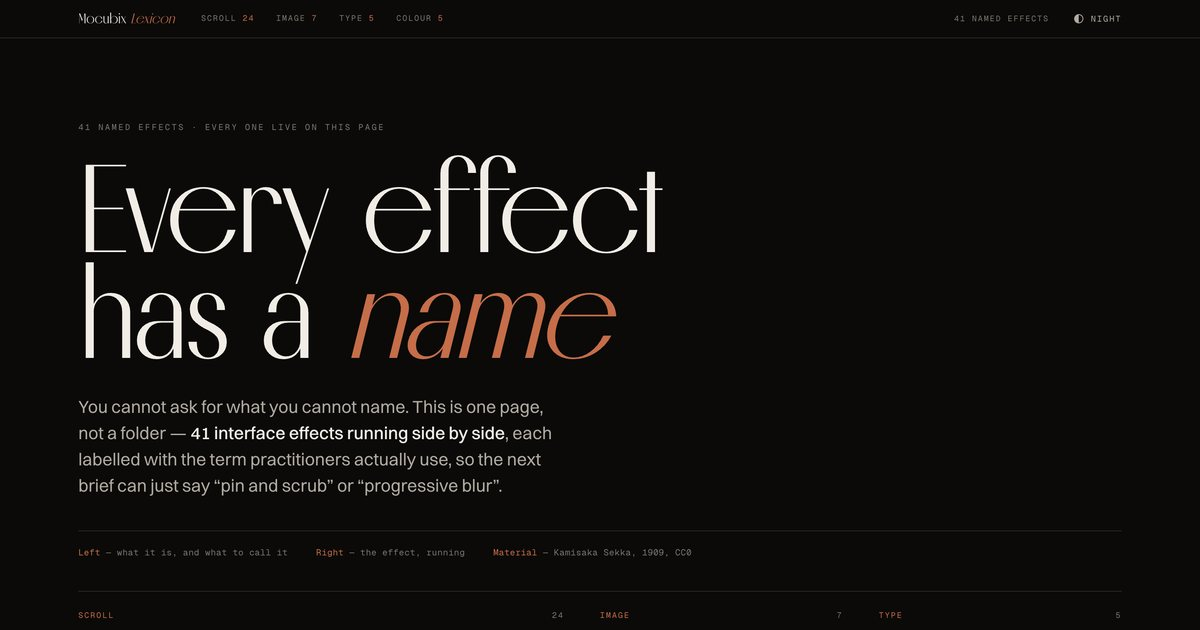
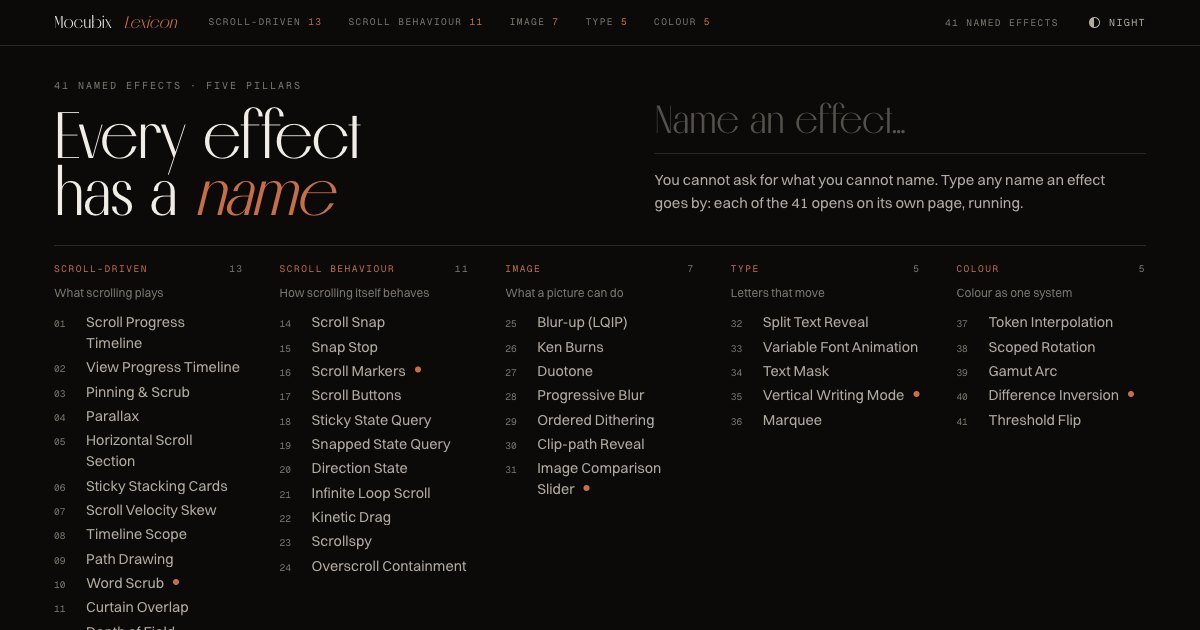
Share cards for the five showcases; the Lexicon's card retaken
Each showcase page now shares its own 1200x630 card, taken in Chrome at a
telling moment of its stage. The Lexicon card showed the retired one-page
Lexicon and was retaken from the entrance. The showcase dot stays with its
term's last word.

diff --git a/site/lexicon/index.html b/site/lexicon/index.html
@@ -60,7 +60,7 @@
     <input id="find" type="search" placeholder="Name an effect…" autocomplete="off" spellcheck="false">
     <p class="caption" aria-live="polite">You cannot ask for what you cannot name. Type any name an effect goes by: each of the 41 opens on its own page, running.</p>
   </div>
-  <div class="index"><div class="idxcol"><h4><a href="scroll-driven/">Scroll-driven</a><em>13</em></h4><p class="blurb">What scrolling plays</p><ol><li><a href="scroll-progress-timeline/" data-aka="scroll-linked animation · page progress" data-gloss="How far you have scrolled is how far the animation has played. The hairline across the top of this page is one."><b>01</b><span style="view-transition-name:t-scroll-progress-timeline">Scroll Progress Timeline</span></a></li><li><a href="view-progress-timeline/" data-aka="view timeline · element-in-viewport progress" data-gloss="Every row times its own animation by its own trip across the screen, so no two are at the same point at the same moment."><b>02</b><span style="view-transition-name:t-view-progress-timeline">View Progress Timeline</span></a></li><li><a href="pinning-and-scrub/" data-aka="sticky section · pinned stage · ScrollTrigger pin + scrub" data-gloss="The picture holds still while the page keeps moving, and your scrolling becomes the playhead. Scroll back up and it plays backwards."><b>03</b><span style="view-transition-name:t-pinning-and-scrub">Pinning &amp; Scrub</span></a></li><li><a href="parallax/" data-aka="differential scroll · multiplane" data-gloss="The layers move at different rates, and the difference between the rates is the part you read as distance."><b>04</b><span style="view-transition-name:t-parallax">Parallax</span></a></li><li><a href="horizontal-scroll-section/" data-aka="pinned horizontal scroll · sideways gallery" data-gloss="You scroll down; the content travels sideways. A list you ranked becomes a row you compare across."><b>05</b><span style="view-transition-name:t-horizontal-scroll-section">Horizontal Scroll Section</span></a></li><li><a href="sticky-stacking-cards/" data-aka="card stack · sticky stack" data-gloss="Cards catch at the top one after another and pile over each other as you keep going."><b>06</b><span style="view-transition-name:t-sticky-stacking-cards">Sticky Stacking Cards</span></a></li><li><a href="scroll-velocity-skew/" data-aka="skew on scroll · velocity distortion · momentum skew" data-gloss="It reads how fast you are scrolling rather than where you have got to. Throw the page and the picture leans, then settles."><b>07</b><span style="view-transition-name:t-scroll-velocity-skew">Scroll Velocity Skew</span></a></li><li><a href="timeline-scope/" data-aka="timeline-scope · remote timeline · cross-tree driving" data-gloss="A figure far down the panel drives the bar at the top of it. One element&#x27;s passage moves something it sits nowhere near."><b>08</b><span style="view-transition-name:t-timeline-scope">Timeline Scope</span></a></li><li><a href="path-drawing/" data-aka="stroke-dashoffset scrub · line draw · SVG path reveal" data-gloss="The line draws itself as you arrive, as though someone were tracing it in front of you."><b>09</b><span style="view-transition-name:t-path-drawing">Path Drawing</span></a></li><li><a href="word-scrub/" data-aka="read-along highlight · per-word reveal · text scrub" data-gloss="The sentence lights up a word at a time, and how much of it has arrived is how far you have come down the page."><b>10</b><span style="view-transition-name:t-word-scrub">Word Scrub <i class="shows" title="Has a full showcase"></i></span></a></li><li><a href="curtain-overlap/" data-aka="panel slide-over · curtain reveal · section overlap" data-gloss="The next panel covers the one before it rather than pushing it out of the way."><b>11</b><span style="view-transition-name:t-curtain-overlap">Curtain Overlap</span></a></li><li><a href="depth-of-field/" data-aka="focus falloff · viewport-centre focus · scroll blur" data-gloss="Only the band across the middle of the screen is sharp. Everything above and below it falls out of focus."><b>12</b><span style="view-transition-name:t-depth-of-field">Depth of Field</span></a></li><li><a href="scroll-triggered-count/" data-aka="odometer · number roll · stat counter" data-gloss="The figures wait until they are on screen, then run up to their value — once, not every time you pass."><b>13</b><span style="view-transition-name:t-scroll-triggered-count">Scroll-Triggered Count</span></a></li></ol></div><div class="idxcol"><h4><a href="scroll-behaviour/">Scroll behaviour</a><em>11</em></h4><p class="blurb">How scrolling itself behaves</p><ol><li><a href="scroll-snap/" data-aka="snap points · scroll snapping" data-gloss="Scrolling comes to rest on a whole item instead of halfway between two. It feels like turning pages."><b>14</b><span style="view-transition-name:t-scroll-snap">Scroll Snap</span></a></li><li><a href="snap-stop/" data-aka="scroll-snap-stop · no-skip snapping · mandatory stop" data-gloss="Flick both tracks hard. The top one skips three or four items in one go; the bottom one stops at the very next one."><b>15</b><span style="view-transition-name:t-snap-stop">Snap Stop</span></a></li><li><a href="scroll-markers/" data-aka="::scroll-marker · CSS-only carousel dots · scroll-marker-group" data-gloss="The dots under the strip are made by the strip itself, and follow wherever you are in it."><b>16</b><span style="view-transition-name:t-scroll-markers">Scroll Markers <i class="shows" title="Has a full showcase"></i></span></a></li><li><a href="scroll-buttons/" data-aka="::scroll-button() · generated prev/next · CSS-only controls" data-gloss="The back and forward arrows come out of the row of items itself, and go grey when there is nothing left that way."><b>17</b><span style="view-transition-name:t-scroll-buttons">Scroll Buttons</span></a></li><li><a href="sticky-state-query/" data-aka="stuck detection · scroll-state container query · sticky-aware header" data-gloss="The moment the bar catches at the top of its panel, it knows, and changes itself."><b>18</b><span style="view-transition-name:t-sticky-state-query">Sticky State Query</span></a></li><li><a href="snapped-state-query/" data-aka="snapped detection · active-slide styling · scroll-state(snapped)" data-gloss="Whichever slide is parked at the centre knows it is the one you are looking at, and lights up."><b>19</b><span style="view-transition-name:t-snapped-state-query">Snapped State Query</span></a></li><li><a href="direction-state/" data-aka="auto-hide header · direction-aware nav · scroll-up reveal" data-gloss="Going down puts the bar away so you can read. Going back up brings it straight back."><b>20</b><span style="view-transition-name:t-direction-state">Direction State</span></a></li><li><a href="infinite-loop-scroll/" data-aka="endless scroll · recycled list · seamless wrap" data-gloss="The list has no end. Keep going and it carries on, with no seam to catch on."><b>21</b><span style="view-transition-name:t-infinite-loop-scroll">Infinite Loop Scroll</span></a></li><li><a href="kinetic-drag/" data-aka="drag-to-scroll · inertial scrolling · momentum decay" data-gloss="Grab it and throw it. It keeps going after you let go, then slows to a stop as though it had weight."><b>22</b><span style="view-transition-name:t-kinetic-drag">Kinetic Drag</span></a></li><li><a href="scrollspy/" data-aka="section tracking · active-anchor highlight · reading position" data-gloss="Whatever has reached eye level is the thing the index marks as where you are."><b>23</b><span style="view-transition-name:t-scrollspy">Scrollspy</span></a></li><li><a href="overscroll-containment/" data-aka="scroll chaining · overscroll-behavior · gesture trapping" data-gloss="Push both panels past their last line. One hands your gesture on to the page behind it; the other keeps it."><b>24</b><span style="view-transition-name:t-overscroll-containment">Overscroll Containment</span></a></li></ol></div><div class="idxcol"><h4><a href="image/">Image</a><em>7</em></h4><p class="blurb">What a picture can do</p><ol><li><a href="blur-up-lqip/" data-aka="low-quality image placeholder · progressive loading" data-gloss="A small blurred stand-in appears at once and the real picture fades in over it — in a box that was already the right size, so nothing jumps."><b>25</b><span style="view-transition-name:t-blur-up-lqip">Blur-up (LQIP)</span></a></li><li><a href="ken-burns/" data-aka="slow pan and zoom · documentary pan" data-gloss="A still photograph is given a slow drift and a slow push in — just enough to feel like time passing."><b>26</b><span style="view-transition-name:t-ken-burns">Ken Burns</span></a></li><li><a href="duotone/" data-aka="two-tone mapping · bichromate" data-gloss="Any photograph, whatever it arrived wearing, comes out in one colour. Drag back to see what it came in as."><b>27</b><span style="view-transition-name:t-duotone">Duotone</span></a></li><li><a href="progressive-blur/" data-aka="gradient blur · layered blur · tapered blur" data-gloss="The picture softens towards the bottom, so the caption sits on something readable without a black bar laid across it."><b>28</b><span style="view-transition-name:t-progressive-blur">Progressive Blur</span></a></li><li><a href="ordered-dithering/" data-aka="Bayer dithering · halftone · posterize" data-gloss="The picture is cut down to a handful of tones, and the ones that are missing are made up out of a regular grain. Drag to take more away."><b>29</b><span style="view-transition-name:t-ordered-dithering">Ordered Dithering</span></a></li><li><a href="clip-path-reveal/" data-aka="mask reveal · wipe · shape reveal" data-gloss="The picture is uncovered by an edge travelling across it, not by fading up underneath."><b>30</b><span style="view-transition-name:t-clip-path-reveal">Clip-path Reveal</span></a></li><li><a href="image-comparison-slider/" data-aka="before/after · juxtapose" data-gloss="Two versions of the same frame, one laid over the other. Drag the divider across to compare them."><b>31</b><span style="view-transition-name:t-image-comparison-slider">Image Comparison Slider <i class="shows" title="Has a full showcase"></i></span></a></li></ol></div><div class="idxcol"><h4><a href="type/">Type</a><em>5</em></h4><p class="blurb">Letters that move</p><ol><li><a href="split-text-reveal/" data-aka="staggered line reveal · line mask · SplitText" data-gloss="The lines rise up out of the page one after another, each a beat behind the last."><b>32</b><span style="view-transition-name:t-split-text-reveal">Split Text Reveal</span></a></li><li><a href="variable-font-animation/" data-aka="axis interpolation · variable axes" data-gloss="Weight is a dial here, not a set of steps. Drag it and the letterforms thicken without ever swapping to another file."><b>33</b><span style="view-transition-name:t-variable-font-animation">Variable Font Animation</span></a></li><li><a href="text-mask/" data-aka="knockout text · background-clip · image-in-type" data-gloss="The picture shows only through the letters. The type is the window, not the caption."><b>34</b><span style="view-transition-name:t-text-mask">Text Mask</span></a></li><li><a href="vertical-writing-mode/" data-aka="竖排 · tate-gumi · vertical typesetting" data-gloss="Set down the page instead of across it, the way Chinese, Japanese and Korean have always been set. Each column is written downward, and they arrive right to left. Latin and figures turn sideways to follow — all but the year, held upright in a single square."><b>35</b><span style="view-transition-name:t-vertical-writing-mode">Vertical Writing Mode <i class="shows" title="Has a full showcase"></i></span></a></li><li><a href="marquee/" data-aka="ticker · infinite scroller · running band" data-gloss="A band of text running sideways under its own power, whether or not you touch the page. Hover to stop it."><b>36</b><span style="view-transition-name:t-marquee">Marquee</span></a></li></ol></div><div class="idxcol"><h4><a href="colour/">Colour</a><em>5</em></h4><p class="blurb">Colour as one system</p><ol><li><a href="token-interpolation/" data-aka="scroll-driven theme · animated custom properties · palette rotation" data-gloss="Every colour on the card is held to one dial. Scroll, and they all turn together, in step, never landing on a combination nobody chose."><b>37</b><span style="view-transition-name:t-token-interpolation">Token Interpolation</span></a></li><li><a href="scoped-rotation/" data-aka="custom property invalidation · style recalc scope" data-gloss="The same colour change, asked of a few elements or of a great many. Press the switch and watch the counter beside it."><b>38</b><span style="view-transition-name:t-scoped-rotation">Scoped Rotation</span></a></li><li><a href="gamut-arc/" data-aka="hue path · chroma preservation · colour interpolation" data-gloss="Two ways to get from terra to blue. The left field goes round the outside and is a full colour the whole way; the right one goes straight across and turns to mud halfway."><b>39</b><span style="view-transition-name:t-gamut-arc">Gamut Arc</span></a></li><li><a href="difference-inversion/" data-aka="mix-blend-mode · invert on crossing · self-inverting overlay" data-gloss="The words turn themselves into the opposite of whatever passes behind them, so they stay readable over a photograph, over white and over black — and then vanish over one particular grey."><b>40</b><span style="view-transition-name:t-difference-inversion">Difference Inversion <i class="shows" title="Has a full showcase"></i></span></a></li><li><a href="threshold-flip/" data-aka="section theming · discrete palette swap · data-theme" data-gloss="At one point on the way down, the whole panel changes its colours at once rather than easing between them."><b>41</b><span style="view-transition-name:t-threshold-flip">Threshold Flip</span></a></li></ol></div></div>
+  <div class="index"><div class="idxcol"><h4><a href="scroll-driven/">Scroll-driven</a><em>13</em></h4><p class="blurb">What scrolling plays</p><ol><li><a href="scroll-progress-timeline/" data-aka="scroll-linked animation · page progress" data-gloss="How far you have scrolled is how far the animation has played. The hairline across the top of this page is one."><b>01</b><span style="view-transition-name:t-scroll-progress-timeline">Scroll Progress Timeline</span></a></li><li><a href="view-progress-timeline/" data-aka="view timeline · element-in-viewport progress" data-gloss="Every row times its own animation by its own trip across the screen, so no two are at the same point at the same moment."><b>02</b><span style="view-transition-name:t-view-progress-timeline">View Progress Timeline</span></a></li><li><a href="pinning-and-scrub/" data-aka="sticky section · pinned stage · ScrollTrigger pin + scrub" data-gloss="The picture holds still while the page keeps moving, and your scrolling becomes the playhead. Scroll back up and it plays backwards."><b>03</b><span style="view-transition-name:t-pinning-and-scrub">Pinning &amp; Scrub</span></a></li><li><a href="parallax/" data-aka="differential scroll · multiplane" data-gloss="The layers move at different rates, and the difference between the rates is the part you read as distance."><b>04</b><span style="view-transition-name:t-parallax">Parallax</span></a></li><li><a href="horizontal-scroll-section/" data-aka="pinned horizontal scroll · sideways gallery" data-gloss="You scroll down; the content travels sideways. A list you ranked becomes a row you compare across."><b>05</b><span style="view-transition-name:t-horizontal-scroll-section">Horizontal Scroll Section</span></a></li><li><a href="sticky-stacking-cards/" data-aka="card stack · sticky stack" data-gloss="Cards catch at the top one after another and pile over each other as you keep going."><b>06</b><span style="view-transition-name:t-sticky-stacking-cards">Sticky Stacking Cards</span></a></li><li><a href="scroll-velocity-skew/" data-aka="skew on scroll · velocity distortion · momentum skew" data-gloss="It reads how fast you are scrolling rather than where you have got to. Throw the page and the picture leans, then settles."><b>07</b><span style="view-transition-name:t-scroll-velocity-skew">Scroll Velocity Skew</span></a></li><li><a href="timeline-scope/" data-aka="timeline-scope · remote timeline · cross-tree driving" data-gloss="A figure far down the panel drives the bar at the top of it. One element&#x27;s passage moves something it sits nowhere near."><b>08</b><span style="view-transition-name:t-timeline-scope">Timeline Scope</span></a></li><li><a href="path-drawing/" data-aka="stroke-dashoffset scrub · line draw · SVG path reveal" data-gloss="The line draws itself as you arrive, as though someone were tracing it in front of you."><b>09</b><span style="view-transition-name:t-path-drawing">Path Drawing</span></a></li><li><a href="word-scrub/" data-aka="read-along highlight · per-word reveal · text scrub" data-gloss="The sentence lights up a word at a time, and how much of it has arrived is how far you have come down the page."><b>10</b><span style="view-transition-name:t-word-scrub">Word <span class="nw">Scrub<i class="shows" title="Has a full showcase"></i></span></span></a></li><li><a href="curtain-overlap/" data-aka="panel slide-over · curtain reveal · section overlap" data-gloss="The next panel covers the one before it rather than pushing it out of the way."><b>11</b><span style="view-transition-name:t-curtain-overlap">Curtain Overlap</span></a></li><li><a href="depth-of-field/" data-aka="focus falloff · viewport-centre focus · scroll blur" data-gloss="Only the band across the middle of the screen is sharp. Everything above and below it falls out of focus."><b>12</b><span style="view-transition-name:t-depth-of-field">Depth of Field</span></a></li><li><a href="scroll-triggered-count/" data-aka="odometer · number roll · stat counter" data-gloss="The figures wait until they are on screen, then run up to their value — once, not every time you pass."><b>13</b><span style="view-transition-name:t-scroll-triggered-count">Scroll-Triggered Count</span></a></li></ol></div><div class="idxcol"><h4><a href="scroll-behaviour/">Scroll behaviour</a><em>11</em></h4><p class="blurb">How scrolling itself behaves</p><ol><li><a href="scroll-snap/" data-aka="snap points · scroll snapping" data-gloss="Scrolling comes to rest on a whole item instead of halfway between two. It feels like turning pages."><b>14</b><span style="view-transition-name:t-scroll-snap">Scroll Snap</span></a></li><li><a href="snap-stop/" data-aka="scroll-snap-stop · no-skip snapping · mandatory stop" data-gloss="Flick both tracks hard. The top one skips three or four items in one go; the bottom one stops at the very next one."><b>15</b><span style="view-transition-name:t-snap-stop">Snap Stop</span></a></li><li><a href="scroll-markers/" data-aka="::scroll-marker · CSS-only carousel dots · scroll-marker-group" data-gloss="The dots under the strip are made by the strip itself, and follow wherever you are in it."><b>16</b><span style="view-transition-name:t-scroll-markers">Scroll <span class="nw">Markers<i class="shows" title="Has a full showcase"></i></span></span></a></li><li><a href="scroll-buttons/" data-aka="::scroll-button() · generated prev/next · CSS-only controls" data-gloss="The back and forward arrows come out of the row of items itself, and go grey when there is nothing left that way."><b>17</b><span style="view-transition-name:t-scroll-buttons">Scroll Buttons</span></a></li><li><a href="sticky-state-query/" data-aka="stuck detection · scroll-state container query · sticky-aware header" data-gloss="The moment the bar catches at the top of its panel, it knows, and changes itself."><b>18</b><span style="view-transition-name:t-sticky-state-query">Sticky State Query</span></a></li><li><a href="snapped-state-query/" data-aka="snapped detection · active-slide styling · scroll-state(snapped)" data-gloss="Whichever slide is parked at the centre knows it is the one you are looking at, and lights up."><b>19</b><span style="view-transition-name:t-snapped-state-query">Snapped State Query</span></a></li><li><a href="direction-state/" data-aka="auto-hide header · direction-aware nav · scroll-up reveal" data-gloss="Going down puts the bar away so you can read. Going back up brings it straight back."><b>20</b><span style="view-transition-name:t-direction-state">Direction State</span></a></li><li><a href="infinite-loop-scroll/" data-aka="endless scroll · recycled list · seamless wrap" data-gloss="The list has no end. Keep going and it carries on, with no seam to catch on."><b>21</b><span style="view-transition-name:t-infinite-loop-scroll">Infinite Loop Scroll</span></a></li><li><a href="kinetic-drag/" data-aka="drag-to-scroll · inertial scrolling · momentum decay" data-gloss="Grab it and throw it. It keeps going after you let go, then slows to a stop as though it had weight."><b>22</b><span style="view-transition-name:t-kinetic-drag">Kinetic Drag</span></a></li><li><a href="scrollspy/" data-aka="section tracking · active-anchor highlight · reading position" data-gloss="Whatever has reached eye level is the thing the index marks as where you are."><b>23</b><span style="view-transition-name:t-scrollspy">Scrollspy</span></a></li><li><a href="overscroll-containment/" data-aka="scroll chaining · overscroll-behavior · gesture trapping" data-gloss="Push both panels past their last line. One hands your gesture on to the page behind it; the other keeps it."><b>24</b><span style="view-transition-name:t-overscroll-containment">Overscroll Containment</span></a></li></ol></div><div class="idxcol"><h4><a href="image/">Image</a><em>7</em></h4><p class="blurb">What a picture can do</p><ol><li><a href="blur-up-lqip/" data-aka="low-quality image placeholder · progressive loading" data-gloss="A small blurred stand-in appears at once and the real picture fades in over it — in a box that was already the right size, so nothing jumps."><b>25</b><span style="view-transition-name:t-blur-up-lqip">Blur-up (LQIP)</span></a></li><li><a href="ken-burns/" data-aka="slow pan and zoom · documentary pan" data-gloss="A still photograph is given a slow drift and a slow push in — just enough to feel like time passing."><b>26</b><span style="view-transition-name:t-ken-burns">Ken Burns</span></a></li><li><a href="duotone/" data-aka="two-tone mapping · bichromate" data-gloss="Any photograph, whatever it arrived wearing, comes out in one colour. Drag back to see what it came in as."><b>27</b><span style="view-transition-name:t-duotone">Duotone</span></a></li><li><a href="progressive-blur/" data-aka="gradient blur · layered blur · tapered blur" data-gloss="The picture softens towards the bottom, so the caption sits on something readable without a black bar laid across it."><b>28</b><span style="view-transition-name:t-progressive-blur">Progressive Blur</span></a></li><li><a href="ordered-dithering/" data-aka="Bayer dithering · halftone · posterize" data-gloss="The picture is cut down to a handful of tones, and the ones that are missing are made up out of a regular grain. Drag to take more away."><b>29</b><span style="view-transition-name:t-ordered-dithering">Ordered Dithering</span></a></li><li><a href="clip-path-reveal/" data-aka="mask reveal · wipe · shape reveal" data-gloss="The picture is uncovered by an edge travelling across it, not by fading up underneath."><b>30</b><span style="view-transition-name:t-clip-path-reveal">Clip-path Reveal</span></a></li><li><a href="image-comparison-slider/" data-aka="before/after · juxtapose" data-gloss="Two versions of the same frame, one laid over the other. Drag the divider across to compare them."><b>31</b><span style="view-transition-name:t-image-comparison-slider">Image Comparison <span class="nw">Slider<i class="shows" title="Has a full showcase"></i></span></span></a></li></ol></div><div class="idxcol"><h4><a href="type/">Type</a><em>5</em></h4><p class="blurb">Letters that move</p><ol><li><a href="split-text-reveal/" data-aka="staggered line reveal · line mask · SplitText" data-gloss="The lines rise up out of the page one after another, each a beat behind the last."><b>32</b><span style="view-transition-name:t-split-text-reveal">Split Text Reveal</span></a></li><li><a href="variable-font-animation/" data-aka="axis interpolation · variable axes" data-gloss="Weight is a dial here, not a set of steps. Drag it and the letterforms thicken without ever swapping to another file."><b>33</b><span style="view-transition-name:t-variable-font-animation">Variable Font Animation</span></a></li><li><a href="text-mask/" data-aka="knockout text · background-clip · image-in-type" data-gloss="The picture shows only through the letters. The type is the window, not the caption."><b>34</b><span style="view-transition-name:t-text-mask">Text Mask</span></a></li><li><a href="vertical-writing-mode/" data-aka="竖排 · tate-gumi · vertical typesetting" data-gloss="Set down the page instead of across it, the way Chinese, Japanese and Korean have always been set. Each column is written downward, and they arrive right to left. Latin and figures turn sideways to follow — all but the year, held upright in a single square."><b>35</b><span style="view-transition-name:t-vertical-writing-mode">Vertical Writing <span class="nw">Mode<i class="shows" title="Has a full showcase"></i></span></span></a></li><li><a href="marquee/" data-aka="ticker · infinite scroller · running band" data-gloss="A band of text running sideways under its own power, whether or not you touch the page. Hover to stop it."><b>36</b><span style="view-transition-name:t-marquee">Marquee</span></a></li></ol></div><div class="idxcol"><h4><a href="colour/">Colour</a><em>5</em></h4><p class="blurb">Colour as one system</p><ol><li><a href="token-interpolation/" data-aka="scroll-driven theme · animated custom properties · palette rotation" data-gloss="Every colour on the card is held to one dial. Scroll, and they all turn together, in step, never landing on a combination nobody chose."><b>37</b><span style="view-transition-name:t-token-interpolation">Token Interpolation</span></a></li><li><a href="scoped-rotation/" data-aka="custom property invalidation · style recalc scope" data-gloss="The same colour change, asked of a few elements or of a great many. Press the switch and watch the counter beside it."><b>38</b><span style="view-transition-name:t-scoped-rotation">Scoped Rotation</span></a></li><li><a href="gamut-arc/" data-aka="hue path · chroma preservation · colour interpolation" data-gloss="Two ways to get from terra to blue. The left field goes round the outside and is a full colour the whole way; the right one goes straight across and turns to mud halfway."><b>39</b><span style="view-transition-name:t-gamut-arc">Gamut Arc</span></a></li><li><a href="difference-inversion/" data-aka="mix-blend-mode · invert on crossing · self-inverting overlay" data-gloss="The words turn themselves into the opposite of whatever passes behind them, so they stay readable over a photograph, over white and over black — and then vanish over one particular grey."><b>40</b><span style="view-transition-name:t-difference-inversion">Difference <span class="nw">Inversion<i class="shows" title="Has a full showcase"></i></span></span></a></li><li><a href="threshold-flip/" data-aka="section theming · discrete palette swap · data-theme" data-gloss="At one point on the way down, the whole panel changes its colours at once rather than easing between them."><b>41</b><span style="view-transition-name:t-threshold-flip">Threshold Flip</span></a></li></ol></div></div>
   <p class="keys"><span>Type to find</span><span>↑ ↓ to choose</span><span>Enter to open</span><span>A pillar’s name opens its cards</span><span><i class="shows"></i>A full showcase</span><span>← → on a term to turn the page</span></p>
 </header>
 <footer>

diff --git a/site/lexicon/vertical-writing-mode/index.html b/site/lexicon/vertical-writing-mode/index.html
@@ -14,10 +14,10 @@
 <meta property="og:title" content="Vertical Writing Mode — Mocubix Lexicon">
 <meta property="og:description" content="Set down the page instead of across it, the way Chinese, Japanese and Korean have always been set. Each column is written downward, and they arrive right to left. Latin and figures turn sideways to follow — all but the year, held upright in a single square.">
 <meta property="og:url" content="https://mocubix.renocrypt.com/lexicon/vertical-writing-mode/">
-<meta property="og:image" content="https://mocubix.renocrypt.com/share/lexicon.jpg">
+<meta property="og:image" content="https://mocubix.renocrypt.com/share/lexicon-vertical-writing-mode.jpg">
 <meta property="og:image:width" content="1200">
 <meta property="og:image:height" content="630">
-<meta property="og:image:alt" content="The Mocubix Lexicon: forty-one named interface effects">
+<meta property="og:image:alt" content="Vertical Writing Mode, in the Mocubix Lexicon: the narrow road">
 <meta name="twitter:card" content="summary_large_image">
 
 <link rel="preconnect" href="https://api.fontshare.com">

diff --git a/site/lexicon/difference-inversion/index.html b/site/lexicon/difference-inversion/index.html
@@ -14,10 +14,10 @@
 <meta property="og:title" content="Difference Inversion — Mocubix Lexicon">
 <meta property="og:description" content="The words turn themselves into the opposite of whatever passes behind them, so they stay readable over a photograph, over white and over black — and then vanish over one particular grey.">
 <meta property="og:url" content="https://mocubix.renocrypt.com/lexicon/difference-inversion/">
-<meta property="og:image" content="https://mocubix.renocrypt.com/share/lexicon.jpg">
+<meta property="og:image" content="https://mocubix.renocrypt.com/share/lexicon-difference-inversion.jpg">
 <meta property="og:image:width" content="1200">
 <meta property="og:image:height" content="630">
-<meta property="og:image:alt" content="The Mocubix Lexicon: forty-one named interface effects">
+<meta property="og:image:alt" content="Difference Inversion, in the Mocubix Lexicon: every tone but one">
 <meta name="twitter:card" content="summary_large_image">
 
 <link rel="preconnect" href="https://api.fontshare.com">

diff --git a/site/lexicon/image-comparison-slider/index.html b/site/lexicon/image-comparison-slider/index.html
@@ -14,10 +14,10 @@
 <meta property="og:title" content="Image Comparison Slider — Mocubix Lexicon">
 <meta property="og:description" content="Two versions of the same frame, one laid over the other. Drag the divider across to compare them.">
 <meta property="og:url" content="https://mocubix.renocrypt.com/lexicon/image-comparison-slider/">
-<meta property="og:image" content="https://mocubix.renocrypt.com/share/lexicon.jpg">
+<meta property="og:image" content="https://mocubix.renocrypt.com/share/lexicon-image-comparison-slider.jpg">
 <meta property="og:image:width" content="1200">
 <meta property="og:image:height" content="630">
-<meta property="og:image:alt" content="The Mocubix Lexicon: forty-one named interface effects">
+<meta property="og:image:alt" content="Image Comparison Slider, in the Mocubix Lexicon: where the ice was">
 <meta name="twitter:card" content="summary_large_image">
 
 <link rel="preconnect" href="https://api.fontshare.com">

diff --git a/site/lexicon/word-scrub/index.html b/site/lexicon/word-scrub/index.html
@@ -14,10 +14,10 @@
 <meta property="og:title" content="Word Scrub — Mocubix Lexicon">
 <meta property="og:description" content="The sentence lights up a word at a time, and how much of it has arrived is how far you have come down the page.">
 <meta property="og:url" content="https://mocubix.renocrypt.com/lexicon/word-scrub/">
-<meta property="og:image" content="https://mocubix.renocrypt.com/share/lexicon.jpg">
+<meta property="og:image" content="https://mocubix.renocrypt.com/share/lexicon-word-scrub.jpg">
 <meta property="og:image:width" content="1200">
 <meta property="og:image:height" content="630">
-<meta property="og:image:alt" content="The Mocubix Lexicon: forty-one named interface effects">
+<meta property="og:image:alt" content="Word Scrub, in the Mocubix Lexicon: endless forms">
 <meta name="twitter:card" content="summary_large_image">
 
 <link rel="preconnect" href="https://api.fontshare.com">

diff --git a/site/lexicon/scroll-markers/index.html b/site/lexicon/scroll-markers/index.html
@@ -14,10 +14,10 @@
 <meta property="og:title" content="Scroll Markers — Mocubix Lexicon">
 <meta property="og:description" content="The dots under the strip are made by the strip itself, and follow wherever you are in it.">
 <meta property="og:url" content="https://mocubix.renocrypt.com/lexicon/scroll-markers/">
-<meta property="og:image" content="https://mocubix.renocrypt.com/share/lexicon.jpg">
+<meta property="og:image" content="https://mocubix.renocrypt.com/share/lexicon-scroll-markers.jpg">
 <meta property="og:image:width" content="1200">
 <meta property="og:image:height" content="630">
-<meta property="og:image:alt" content="The Mocubix Lexicon: forty-one named interface effects">
+<meta property="og:image:alt" content="Scroll Markers, in the Mocubix Lexicon: a journey outward">
 <meta name="twitter:card" content="summary_large_image">
 
 <link rel="preconnect" href="https://api.fontshare.com">

diff --git a/site/lexicon/lexicon.css b/site/lexicon/lexicon.css
@@ -873,6 +873,7 @@ footer a:hover{color:var(--accent)}
 /* a term with a full showcase carries a small terracotta dot */
 .shows{display:inline-block;width:6px;height:6px;border-radius:50%;background:var(--accent);margin-left:9px;vertical-align:.2em}
 .keys .shows{margin:0 7px 0 0}
+.nw{white-space:nowrap}
 
 /* Japanese and Chinese in labels, aliases and code fall to the Lexicon's own Han face,
    never to the system's: its fallback can be missing (it was, on macOS 27), and a

diff --git a/build/build-lexicon.py b/build/build-lexicon.py
@@ -424,15 +424,25 @@ import importlib, sys
 sys.path.insert(0, str(ROOT / 'build' / 'showcases'))
 SHOWCASES = {slug(t[2][1]): importlib.import_module(slug(t[2][1]).replace('-', '_')) for t in TERMS
              if (ROOT / 'build' / 'showcases' / (slug(t[2][1]).replace('-', '_') + '.py')).exists()}
-SHOW = ' <i class="shows" title="Has a full showcase"></i>'
+SHOW = '<i class="shows" title="Has a full showcase"></i>'
+
+
+def marked(name):
+    """A term's name, with the showcase dot held to its last word so the dot never wraps alone."""
+    if slug(name) not in SHOWCASES:
+        return name
+    head, _, last = name.rpartition(' ')
+    return f'{head} <span class="nw">{last}{SHOW}</span>' if head else f'<span class="nw">{last}{SHOW}</span>'
 
 
 MATERIAL = ('Material — Kamisaka Sekka 神坂雪佳, <i>Momoyogusa</i> 百々世草, 1909–10<br>'
             'Rijksmuseum scans via Wikimedia Commons, CC0. Anna Atkins cyanotypes, 1843.')
 
 
-def shell(title, desc, path, rel, body, current=None, head='', material=MATERIAL):
+def shell(title, desc, path, rel, body, current=None, head='', material=MATERIAL, card=None):
     url = BASE + path
+    # a showcase with its own share card (site/share/lexicon-<term>.jpg) shows it; every other page the Lexicon's
+    card_name, card_alt = card or ('lexicon', 'The Mocubix Lexicon: forty-one named interface effects')
     nav = ''
     for k, n, _, _ in PILLARS:
         count = sum(1 for t in TERMS if t[0] == k)
@@ -440,7 +450,8 @@ def shell(title, desc, path, rel, body, current=None, head='', material=MATERIAL
         nav += f'<a class="navfam" href="{rel}lexicon/{k}/"{mark}>{n}<i>{count}</i></a>'
     return (SHELL.replace('__TITLE__', title).replace('__TITLE_ATTR__', attr(title)).replace('__DESC__', attr(desc))
             .replace('__URL__', url).replace('__NAV__', nav).replace('__COUNT__', str(len(TERMS)))
-            .replace('__BODY__', body).replace('__HEAD__', head).replace('__MATERIAL__', material).replace('__REL__', rel))
+            .replace('__BODY__', body).replace('__HEAD__', head).replace('__MATERIAL__', material).replace('__REL__', rel)
+            .replace('__CARD__', card_name).replace('__CARD_ALT__', attr(card_alt)))
 
 
 SHELL = """<!doctype html>
@@ -459,10 +470,10 @@ SHELL = """<!doctype html>
 <meta property="og:title" content="__TITLE_ATTR__">
 <meta property="og:description" content="__DESC__">
 <meta property="og:url" content="__URL__">
-<meta property="og:image" content="https://mocubix.renocrypt.com/share/lexicon.jpg">
+<meta property="og:image" content="https://mocubix.renocrypt.com/share/__CARD__.jpg">
 <meta property="og:image:width" content="1200">
 <meta property="og:image:height" content="630">
-<meta property="og:image:alt" content="The Mocubix Lexicon: forty-one named interface effects">
+<meta property="og:image:alt" content="__CARD_ALT__">
 <meta name="twitter:card" content="summary_large_image">
 
 <link rel="preconnect" href="https://api.fontshare.com">
@@ -547,7 +558,7 @@ def entrance():
         for t in items:
             s = t[2]; sl = slug(s[1])
             lis += (f'<li><a href="{sl}/" data-aka="{attr(s[2])}" data-gloss="{attr(s[3])}">'
-                    f'<b>{NUM[s[1]]:02d}</b><span style="view-transition-name:t-{sl}">{s[1]}{SHOW if sl in SHOWCASES else ""}</span></a></li>')
+                    f'<b>{NUM[s[1]]:02d}</b><span style="view-transition-name:t-{sl}">{marked(s[1])}</span></a></li>')
         cols.append(f'<div class="idxcol"><h4><a href="{key}/">{pname}</a><em>{len(items)}</em></h4>'
                     f'<p class="blurb">{blurb}</p><ol>{lis}</ol></div>')
     body = (f'<header class="entrance">\n'
@@ -637,8 +648,11 @@ def term_page(i):
     if sc and (ROOT / 'site' / 'lexicon' / slug(name) / 'showcase.js').exists():   # a showcase may bring a little script of its own
         head += '<script src="showcase.js" defer></script>\n'
     head += getattr(sc, 'HEAD', '')                                                # and anything else its head needs, such as a face
+    card = None
+    if sc and (ROOT / 'site' / 'share' / f'lexicon-{slug(name)}.jpg').exists():
+        card = (f'lexicon-{slug(name)}', f'{plain(name)}, in the Mocubix Lexicon: {plain(sc.TITLE).lower()}')
     return shell(f'{plain(name)} — Mocubix Lexicon', plain(s[3]), f'lexicon/{slug(name)}/', rel, body, current=pkey, head=head,
-                 material=getattr(sc, 'MATERIAL', MATERIAL))
+                 material=getattr(sc, 'MATERIAL', MATERIAL), card=card)
 
 
 out = ROOT / 'site' / 'lexicon'

diff --git a/notes/DECISIONS.md b/notes/DECISIONS.md
@@ -959,3 +959,15 @@ with `mod()`, so every numeral reads on its own band. Facts sourced: the Zone
 System (Wikipedia), the Tetons print on the Voyager Golden Record (NASA's list),
 the captions (National Archives, via their Commons records). Chrome holds
 120 fps through the whole walk, p99 frame 10 ms.
+
+## Share cards for the showcases, 2026-09-23
+
+Each showcase now has its own 1200×630 card (`site/share/lexicon-<term>.jpg`),
+taken in Chrome at a telling moment of its stage — the Pillars of Creation,
+Darwin's last line with the colour plates, Grinnell 1910 | 2025 at the
+divider, the scroll's cover and first columns, Old Faithful under the inverted
+line — with a small "Mocubix Lexicon · <term>" plate. The generator uses a
+term's card when the file exists, otherwise the Lexicon's. The Lexicon's own
+card was stale (it still showed the one-page Lexicon) and was retaken from the
+entrance. The showcase dot in the index is now held to its term's last word,
+so it never wraps onto a line of its own.
